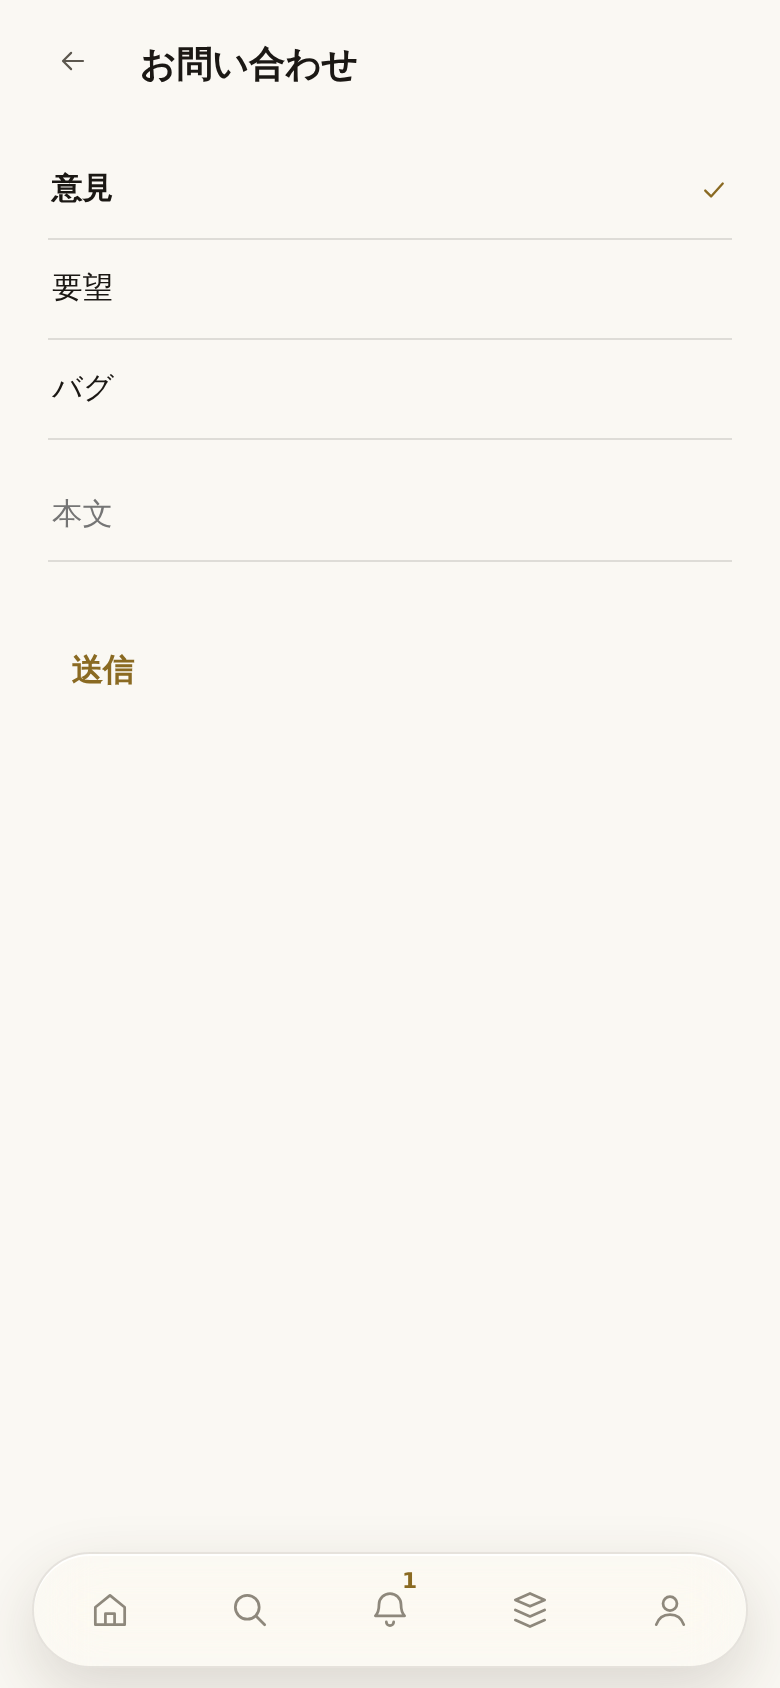
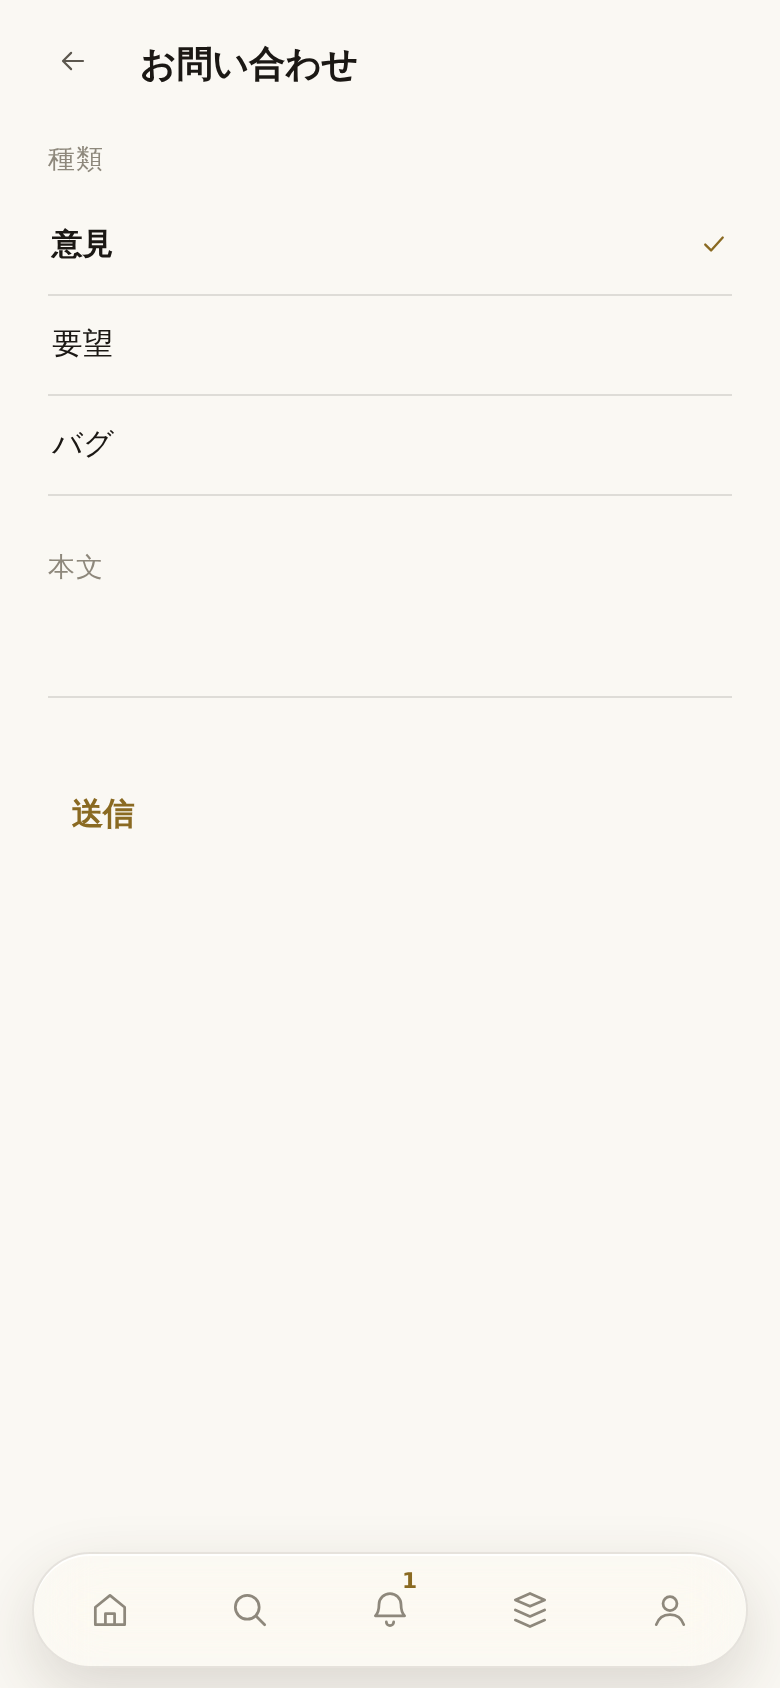
画面: お問い合わせをフォームの形に ── 項目名を上に、本文は 2000 で打ち止め
「フォームみたいな見た目で作ってくれない？それきもい。」OWNER 2026-09-22。
送ってもらった見本でフォームに見えているのは**ラベル**の方で、枠と角丸は
五回やめろと言われている所（「基本下線だけ」）。なので項目名を足した：
`<div class="field"><label>` ── このアプリが既に四画面で使っている形で、
**CSS は一行も足していない**。

「種類」の下に三行、「本文」の下に欄、送信。薄い字の placeholder はやめた
（ラベルと同じ語が二回出て、片方は打った瞬間に消えるので）。`contact.ph` を
消して `contact.kind`・`contact.body` に。

**欄は増やさない** ──「電話番号とか入らないから。選択して本文だけやれれば
いい」。名前・会社・メール・電話は一つも作っていない。@ は送信の時に author
として付くので、運営には届く。

本文は 2000 字で打ち止め（「2000文字以降は勝手に文字消えるようにしていいよ」）。
2001 字目から入らない。`maxlength` ではなく contactSet() で切る ── 属性に
書くと同じ数が画面と schema の二箇所になる。

写真：r45-contact-empty / -kind / -written。

Claude-Session: https://claude.ai/code/session_01Rhn9xAnLWjkCZvjhnJpjae

Changed region(s): [[0.0615, 0.0616, 0.1538, 0.3389], [0.0923, 0.3697, 0.1846, 0.4313], [0.0923, 0.4621, 0.1846, 0.4929]]

diff --git a/www/settings.js b/www/settings.js
@@ -414,7 +414,26 @@ function contactKind(k){ CONT.kind=String(k||'opinion'); render(); }
 /* Stored and not rendered back: render() here would rebuild the field under
    whoever is typing into it. setPwSet() above and adminSet() in www/mod.js
    are the same line, and lnGrow() is what makes the box follow the words. */
-function contactSet(k, v){ if(k==='body'){ CONT.body=String(v||''); lnGrow('cont-b'); } }
+var CONT_MAX=2000;
+function contactSet(k, v){
+  if(k!=='body') return;
+  /* 「2000文字以降は勝手に文字消えるようにしていいよ」 OWNER 2026-09-22.
+     2001 字目からは入りません -- 打った物が消えるのではなく、そこから先が
+     入らないという形です。断りの文は出ません（説明を書かない）。
+
+     `maxlength` ではなく切るのは、貼り付けが maxlength を素通りする
+     WKWebView があるからではなく、サーバーの床（length(body) between 1
+     and 2000）と同じ数を一箇所で言うためです -- 欄の属性に書くと、同じ数が
+     画面と schema の二箇所になります。 */
+  var txt=String(v||'');
+  if(txt.length>CONT_MAX) txt=txt.slice(0, CONT_MAX);
+  CONT.body=txt;
+  /* 切った時だけ欄を書き戻します。打っている間に render() すると指の下の
+     欄が作り直されるので（setPwSet と同じ）、切れていない時は触りません。 */
+  var b=document.getElementById('cont-b');
+  if(b && b.value!==txt) b.value=txt;
+  lnGrow('cont-b');
+}
 /* WHAT WAS TYPED STAYS ON THE SCREEN WHEN THE SEND FAILS. 「保存するタイミング
    でエラーが起きるなら、保存されないし」「なら失敗して残るにするべき。」 OWNER
    2026-09-05 -- with no signal there is nothing to send and nothing is sent,
@@ -437,22 +456,42 @@ function contactGo(){
   });
 }
 function vContact(){
+  /* THE SHAPE IS THIS APP'S OWN FORM, and it is the shape four other screens
+     already have: `<div class="field"><label>` -- the項目名 above, the thing
+     itself under it, one rule and nothing else. 「フォームみたいな見た目で
+     作ってくれない？」 OWNER 2026-09-22, shown beside a form whose boxes and
+     orange button are exactly what 「角丸やめろ」「かくまるみたいなのでくくる
+     のやめて欲しい。基本下線だけ」 took out of this app. What makes that
+     picture read as a form is the LABELS, not the frames, so the labels are
+     what was missing here and the frames stay gone.
+
+     A label is not an explanation. It says what the thing under it IS, which
+     is the same thing `.sl` does on every settings row. */
   return '<div class="view">'+navTop('')+'<div class="body">'+
-    CONT_KINDS.map(function(k){
-      return '<button class="set lrow'+(CONT.kind===k? ' on':'')+'"' +
-        DO('contactKind', [k]) + '>'+
-        '<span class="sl">'+esc(t('contact.'+k))+'</span>'+
-        '<span class="lchk">'+(CONT.kind===k? ICON_TICK : '')+'</span></button>';
-    }).join('')+
-    /* The one place a textarea is made, so this one is the same height, the
-       same growing box and the same placeholder shape as every other. NO
-       `.sfont`: what is written here is read by whoever makes the app, in
-       their own letters, and a message in somebody's own alphabet is a
-       message nobody can answer. */
-    '<div class="field" style="margin-top:14px">'+
-      lnField('cont-b', t('contact.ph'), IN('contactSet', ['body']), CONT.body)+
+    '<div class="field">'+
+      '<label>'+esc(t('contact.kind'))+'</label>'+
+      /* Rows and not a rail of round chips, which is banned; the same
+         `.set lrow` the interface languages are chosen with, so one press
+         chooses and the chosen one carries the tick. */
+      CONT_KINDS.map(function(k){
+        return '<button class="set lrow'+(CONT.kind===k? ' on':'')+'"' +
+          DO('contactKind', [k]) + '>'+
+          '<span class="sl">'+esc(t('contact.'+k))+'</span>'+
+          '<span class="lchk">'+(CONT.kind===k? ICON_TICK : '')+'</span></button>';
+      }).join('')+
     '</div>'+
-    '<button class="btn ghost" style="margin-top:18px"' + DO('contactGo') +
+    /* NO PLACEHOLDER. The label above it already says what goes here, and a
+       placeholder repeating it is the same word twice -- one of which
+       disappears the moment somebody types.
+
+       No `.sfont`: what is written here is read by whoever makes the app, in
+       their own letters. A message in somebody's own alphabet is a message
+       nobody can answer. */
+    '<div class="field" style="margin-top:26px">'+
+      '<label>'+esc(t('contact.body'))+'</label>'+
+      lnField('cont-b', '', IN('contactSet', ['body']), CONT.body)+
+    '</div>'+
+    '<button class="btn ghost" style="margin-top:22px"' + DO('contactGo') +
       (CONT.busy? ' disabled':'') + '>'+
       esc(t(CONT.busy? 'ob.mail.wait' : 'contact.send'))+'</button>'+
     '</div></div>';

diff --git a/www/i18n/ru.js b/www/i18n/ru.js
@@ -912,7 +912,8 @@ defLang('ru', (function(){
       "contact.opinion" : "Мнение",
       "contact.request" : "Пожелание",
       "contact.bug" : "Ошибка",
-      "contact.ph" : "Сообщение",
+      "contact.kind" : "Тип",
+      "contact.body" : "Сообщение",
       "contact.send" : "Отправить",
       "contact.sent" : "Отправлено",
       "contact.need" : "Напишите что-нибудь.",
@@ -1227,6 +1228,8 @@ defLang('ru', (function(){
       "admin.staff.add"     : "Добавить",
       "admin.feedback" : "Обратная связь",
       "admin.fb.none" : "Пока ничего",
+      "admin.fb.drop" : "Удалить",
+      "admin.fb.sure" : "Удалить это сообщение?",
       "post.out"            : "Аккаунт заблокирован",
       "post.down"           : "Снято",
       "post.rules"           : "Удалено за нарушение правил",

diff --git a/www/i18n/ja.js b/www/i18n/ja.js
@@ -815,7 +815,8 @@ defLang('ja', (function(){
       'contact.opinion' : '意見',
       'contact.request' : '要望',
       'contact.bug' : 'バグ',
-      'contact.ph' : '本文',
+      'contact.kind' : '種類',
+      'contact.body' : '本文',
       'contact.send' : '送信',
       'contact.sent' : '送信しました',
       'contact.need' : '本文を入力してください。',
@@ -1130,6 +1131,8 @@ defLang('ja', (function(){
       'admin.staff.add'   : "追加",
       'admin.feedback' : 'お問い合わせ',
       'admin.fb.none' : 'まだありません',
+      'admin.fb.drop' : '消す',
+      'admin.fb.sure' : 'これを消しますか？',
       'post.out'          : "アカウントは凍結中",
       'post.down'         : "公開停止",
       'post.rules'         : 'ポリシー違反により削除されました',

diff --git a/www/i18n/ko.js b/www/i18n/ko.js
@@ -1074,7 +1074,8 @@ defLang('ko', (function(){
       "contact.opinion" : "의견",
       "contact.request" : "요청",
       "contact.bug" : "버그",
-      "contact.ph" : "내용",
+      "contact.kind" : "종류",
+      "contact.body" : "내용",
       "contact.send" : "보내기",
       "contact.sent" : "보냈습니다",
       "contact.need" : "내용을 입력해 주세요.",
@@ -1389,6 +1390,8 @@ defLang('ko', (function(){
       "admin.staff.add"    : "추가",
       "admin.feedback" : "문의",
       "admin.fb.none" : "아직 없습니다",
+      "admin.fb.drop" : "삭제",
+      "admin.fb.sure" : "이 내용을 삭제할까요?",
       "post.out"           : "계정 정지 중",
       "post.down"          : "공개 중지",
       "post.rules"          : "규정 위반으로 삭제되었습니다",

diff --git a/www/i18n/fr.js b/www/i18n/fr.js
@@ -947,7 +947,8 @@ defLang('fr', (function(){
       "contact.opinion" : "Avis",
       "contact.request" : "Demande",
       "contact.bug" : "Bogue",
-      "contact.ph" : "Message",
+      "contact.kind" : "Type",
+      "contact.body" : "Message",
       "contact.send" : "Envoyer",
       "contact.sent" : "Envoyé",
       "contact.need" : "Écrivez quelque chose.",
@@ -1262,6 +1263,8 @@ defLang('fr', (function(){
       "admin.staff.add"    : "Ajouter",
       "admin.feedback" : "Contact",
       "admin.fb.none" : "Rien pour l’instant",
+      "admin.fb.drop" : "Supprimer",
+      "admin.fb.sure" : "Supprimer ce message ?",
       "post.out"           : "Compte suspendu",
       "post.down"          : "Retiré",
       "post.rules"          : "Supprimé pour non-respect des règles",

diff --git a/www/i18n/de.js b/www/i18n/de.js
@@ -888,7 +888,8 @@ defLang('de', (function(){
       "contact.opinion" : "Meinung",
       "contact.request" : "Wunsch",
       "contact.bug" : "Fehler",
-      "contact.ph" : "Nachricht",
+      "contact.kind" : "Art",
+      "contact.body" : "Nachricht",
       "contact.send" : "Senden",
       "contact.sent" : "Gesendet",
       "contact.need" : "Bitte etwas schreiben.",
@@ -1203,6 +1204,8 @@ defLang('de', (function(){
       "admin.staff.add"    : "Hinzufügen",
       "admin.feedback" : "Kontakt",
       "admin.fb.none" : "Noch nichts",
+      "admin.fb.drop" : "Löschen",
+      "admin.fb.sure" : "Diese Nachricht löschen?",
       "post.out"           : "Konto gesperrt",
       "post.down"          : "Zurückgezogen",
       "post.rules"          : "Wegen Regelverstoßes entfernt",

diff --git a/www/i18n/it.js b/www/i18n/it.js
@@ -899,7 +899,8 @@ defLang('it', (function(){
       "contact.opinion" : "Opinione",
       "contact.request" : "Richiesta",
       "contact.bug" : "Errore",
-      "contact.ph" : "Messaggio",
+      "contact.kind" : "Tipo",
+      "contact.body" : "Messaggio",
       "contact.send" : "Invia",
       "contact.sent" : "Inviato",
       "contact.need" : "Scrivi qualcosa.",
@@ -1214,6 +1215,8 @@ defLang('it', (function(){
       "admin.staff.add"    : "Aggiungi",
       "admin.feedback" : "Contatti",
       "admin.fb.none" : "Ancora niente",
+      "admin.fb.drop" : "Elimina",
+      "admin.fb.sure" : "Eliminare questo messaggio?",
       "post.out"           : "Account sospeso",
       "post.down"          : "Ritirato",
       "post.rules"          : "Rimosso per violazione delle regole",

diff --git a/www/i18n/es.js b/www/i18n/es.js
@@ -859,7 +859,8 @@ defLang('es', (function(){
       "contact.opinion" : "Opinión",
       "contact.request" : "Petición",
       "contact.bug" : "Error",
-      "contact.ph" : "Mensaje",
+      "contact.kind" : "Tipo",
+      "contact.body" : "Mensaje",
       "contact.send" : "Enviar",
       "contact.sent" : "Enviado",
       "contact.need" : "Escribe algo.",
@@ -1174,6 +1175,8 @@ defLang('es', (function(){
       "admin.staff.add"    : "Añadir",
       "admin.feedback" : "Contacto",
       "admin.fb.none" : "Nada todavía",
+      "admin.fb.drop" : "Eliminar",
+      "admin.fb.sure" : "¿Eliminar este mensaje?",
       "post.out"           : "Cuenta suspendida",
       "post.down"          : "Retirado",
       "post.rules"          : "Eliminado por incumplir las normas",

diff --git a/www/i18n/pt.js b/www/i18n/pt.js
@@ -906,7 +906,8 @@ defLang('pt', (function(){
       "contact.opinion" : "Opinião",
       "contact.request" : "Pedido",
       "contact.bug" : "Erro",
-      "contact.ph" : "Mensagem",
+      "contact.kind" : "Tipo",
+      "contact.body" : "Mensagem",
       "contact.send" : "Enviar",
       "contact.sent" : "Enviado",
       "contact.need" : "Escreva algo.",
@@ -1221,6 +1222,8 @@ defLang('pt', (function(){
       "admin.staff.add"    : "Adicionar",
       "admin.feedback" : "Contacto",
       "admin.fb.none" : "Ainda nada",
+      "admin.fb.drop" : "Eliminar",
+      "admin.fb.sure" : "Eliminar esta mensagem?",
       "post.out"           : "Conta suspensa",
       "post.down"          : "Retirado",
       "post.rules"          : "Removido por violar as regras",

diff --git a/www/i18n/zh.js b/www/i18n/zh.js
@@ -904,7 +904,8 @@ defLang('zh', (function(){
       "contact.opinion" : "意见",
       "contact.request" : "需求",
       "contact.bug" : "问题",
-      "contact.ph" : "内容",
+      "contact.kind" : "类型",
+      "contact.body" : "内容",
       "contact.send" : "发送",
       "contact.sent" : "已发送",
       "contact.need" : "请输入内容。",
@@ -1219,6 +1220,8 @@ defLang('zh', (function(){
       "admin.staff.add"    : "添加",
       "admin.feedback" : "联系我们",
       "admin.fb.none" : "还没有",
+      "admin.fb.drop" : "删除",
+      "admin.fb.sure" : "删除这条内容？",
       "post.out"           : "账号已冻结",
       "post.down"          : "已下架",
       "post.rules"          : "因违反规定已删除",

diff --git a/www/i18n/en.js b/www/i18n/en.js
@@ -811,7 +811,8 @@ defLang('en', (function(){
       'contact.opinion' : 'Opinion',
       'contact.request' : 'Request',
       'contact.bug' : 'Bug',
-      'contact.ph' : 'Your message',
+      'contact.kind' : 'Kind',
+      'contact.body' : 'Message',
       'contact.send' : 'Send',
       'contact.sent' : 'Sent',
       'contact.need' : 'Write something.',
@@ -1129,6 +1130,8 @@ defLang('en', (function(){
       'admin.staff.add'   : "Add",
       'admin.feedback' : 'Contact',
       'admin.fb.none' : 'Nothing yet',
+      'admin.fb.drop' : 'Delete',
+      'admin.fb.sure' : 'Delete this message?',
       'post.out'          : "Account suspended",
       'post.down'         : "Taken down",
       'post.rules'         : 'Removed for breaking the rules',
